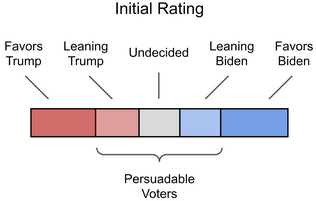
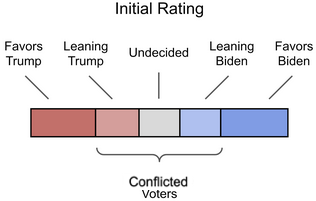
Nomenclature updates

Changed region(s): [[0.3703, 0.8657, 0.6266, 0.9552]]

diff --git a/website/templates/model-performance.html b/website/templates/model-performance.html
@@ -55,7 +55,7 @@
           <h2>Algorithms</h2>
           <p>This section describes the classifier algorithms applied across the model strategies.</p>
           <h3>Logistic regression</h3>
-          <p>Logistic regression is considered one of the most common and foundational algorithms in supervised learning. Fundamentally, logistic regression models the linear relationship between one or more arbitrary independent features and binary dependent variables. Logistic regression applies the logit transformation such that the feature set goes from an infinite, continuous scale to a probabilistic scale bounded between 0 and 1. Functionally, the log odds of an outcome occurrence is a linear function of the features. The binary nature of the outcome variable in this problem domain (decided or undecided voter) makes logistic regression an appropriate choice classifier.</p>
+          <p>Logistic regression is considered one of the most common and foundational algorithms in supervised learning. Fundamentally, logistic regression models the linear relationship between one or more arbitrary independent features and binary dependent variables. Logistic regression applies the logit transformation such that the feature set goes from an infinite, continuous scale to a probabilistic scale bounded between 0 and 1. Functionally, the log odds of an outcome occurrence is a linear function of the features. The binary nature of the outcome variable in this problem domain (decided or conflicted voter) makes logistic regression an appropriate choice classifier.</p>
           <h3>Random Forest</h3>
           <p>The Random Forest classifier builds on a bagged decision trees classifier. It creates training sets by bootstrap sampling with replacement in order to build each tree iteratively. Random Forest classifiers choose a subset of features to consider as split points. Regularization occurs as a result of having many different trees without pruning. The bootstrapping training process repeats iteratively by creating multiple trees. Each result of each iteration will be a bit different given different trees formed. The results are averaged to avoid overfitting.</p>
           <h3>Support Vector Machines (SVM)</h3>
@@ -69,7 +69,7 @@
           <h3>Light Gradient Boosting Model (LightGBM)</h3>
           <p>The LightGBM algorithm is an implementation of a boosting decision tree classifier that, like XGBoost, has gained popularity in recent years for its good performance and speed, particularly in handling big data. The main difference of LightGBM is that it uses histogram-based algorithms to bucket continuous features into discrete bins, which speeds up training and reduces memory usage. XGBoost, on the other hand, uses a pre-sorted algorithmic approach. The advantages of histogram-based algorithms include reducing the cost of calculating the information gain at each split and uses histogram subtraction for speed up. Refer to the <a href="https://lightgbm.readthedocs.io/en/latest/Features.html">LightGBM documentation</a> for more information. </p>
           <h2>Results</h2>
-          <p>Model performance over the implementation period, following October 20th through November 3rd, are presented here. Models are compared to a baseline model, which is based on a stylized logistic regression model using People’s Action filters. We use the Cohen's Kappa metric to measure model prediction agreement with actual outcomes, Matthew’s Correlation Coefficient metrics to measure how well a model predicts true positives and true negatives, precision metric to measure how well a model correctly identifies undecided voters and a recall metric to measure how well a model does not miss identifying undecided voters. For simplicity, just the results from the implementation of the best performing algorithm for each model strategy are discussed here.</p>
+          <p>Model performance over the implementation period, following October 20th through November 3rd, are presented here. Models are compared to a baseline model, which is based on a stylized logistic regression model using People’s Action filters. We use the Cohen's Kappa metric to measure model prediction agreement with actual outcomes, Matthew’s Correlation Coefficient metrics to measure how well a model predicts true positives and true negatives, precision metric to measure how well a model correctly identifies conflicted voters and a recall metric to measure how well a model does not miss identifying conflicted voters. For simplicity, just the results from the implementation of the best performing algorithm for each model strategy are discussed here.</p>
           <h3>Cohen’s Kappa coefficient</h3>
           <p>Cohen’s Kappa is used to measure how well the model predictions perform relative to the actual outcomes. It is a statistic typically used to measure inter-rater reliability for qualitative items. It can be thought of as the proportionate agreement of a model predictions with actual results over the expected probabilities of agreement. Figure 1 below shows the Cohen’s Kappa measures for each model. Our models perform better than baseline. Model Strategy 4 using XGBoost and Model Strategy 5 using Light GBM are the best performing classifiers with Cohen’s Kappa greater than 10%.</p>
         </div>
@@ -85,7 +85,7 @@
       <div class="row">
         <div class="col">
           <h3>Matthew’s Correlation Coefficient</h3>
-          <p>Similar to Cohen’s Kappa, Matthew’s Correlation Coefficient (MCC) is a balanced measure of how well a model predicts True Positives and True Negatives, which is useful in this case when the classes (decided and undecided voter groups) are of different sizes. The MCC is a correlation coefficient between the observed and predicted binary classifications, returning a value between −1 and +1. A coefficient of +1 represents a perfect prediction, 0 no better than random prediction and −1 indicates total disagreement between prediction and observation. Figure 2 below shows the MCC measures for each model. Our models perform better than baseline. Model Strategy 4 using XGBoost and Model Strategy 5 using Light GBM are the best performing classifiers with MCC greater than 10%.</p>
+          <p>Similar to Cohen’s Kappa, Matthew’s Correlation Coefficient (MCC) is a balanced measure of how well a model predicts True Positives and True Negatives, which is useful in this case when the classes (decided and conflicted voter groups) are of different sizes. The MCC is a correlation coefficient between the observed and predicted binary classifications, returning a value between −1 and +1. A coefficient of +1 represents a perfect prediction, 0 no better than random prediction and −1 indicates total disagreement between prediction and observation. Figure 2 below shows the MCC measures for each model. Our models perform better than baseline. Model Strategy 4 using XGBoost and Model Strategy 5 using Light GBM are the best performing classifiers with MCC greater than 10%.</p>
         </div>
       </div>
       <div class="row">

diff --git a/website/templates/model-strategy.html b/website/templates/model-strategy.html
@@ -49,7 +49,7 @@
       <h2>Training Data</h2>
       <div class="row">
         <div class="col-md-6">
-          <p>Our training set consisted of phone bank data collected by People’s Action between June 24 and October 18, 2020. We gathered the data from ~14,000 conversations that occurred during this period of time from 8 states across the U.S. Since callers asked potential voters who they were planning to vote for prior to further conversations, we used this initial rating as our ground truth. The ratings are binned into 5 categories: favors Trump, leaning Trump, undecided, leaning Biden, and favors Biden. We call those who are undecided or leaning as persuadable voters.</p>
+          <p>Our training set consisted of phone bank data collected by People’s Action between June 24 and October 18, 2020. We gathered the data from ~14,000 conversations that occurred during this period of time from 8 states across the U.S. Since callers asked potential voters who they were planning to vote for prior to further conversations, we used this initial rating as our ground truth. The ratings are binned into 5 categories: favors Trump, leaning Trump, undecided, leaning Biden, and favors Biden. We call those who are undecided or leaning as conflicted voters.</p>
         </div>
         <div class="col-md-6 text-center">
           <img class="figure-img img-fluid" src="{{url_for('static',filename='images/model-strategy/initial-rating.png')}}" alt="Image depicting rating scale">
@@ -59,7 +59,7 @@
       <div class="row">
         <div class="col">
           
-      <p>We utilized a variety of modeling strategies to provide inputs into DARTS. Having some diversity in our ensemble allows us to cast a wider net for finding undecided or persuadable voters. We devised four modeling strategies that could be used for identifying undecided or persuadable voters. Each approach takes a different view on the classification problem and uses different feature sets. However, due to circumstances in the timing, we were only able to use the first three strategies in production.</p>
+      <p>We utilized a variety of modeling strategies to provide inputs into DARTS. Having some diversity in our ensemble allows us to cast a wider net for finding undecided or conflicted voters. We devised four modeling strategies that could be used for identifying undecided or conflicted voters. Each approach takes a different view on the classification problem and uses different feature sets. However, due to circumstances in the timing, we were only able to use the first three strategies in production.</p>
         </div>
         
       </div>
